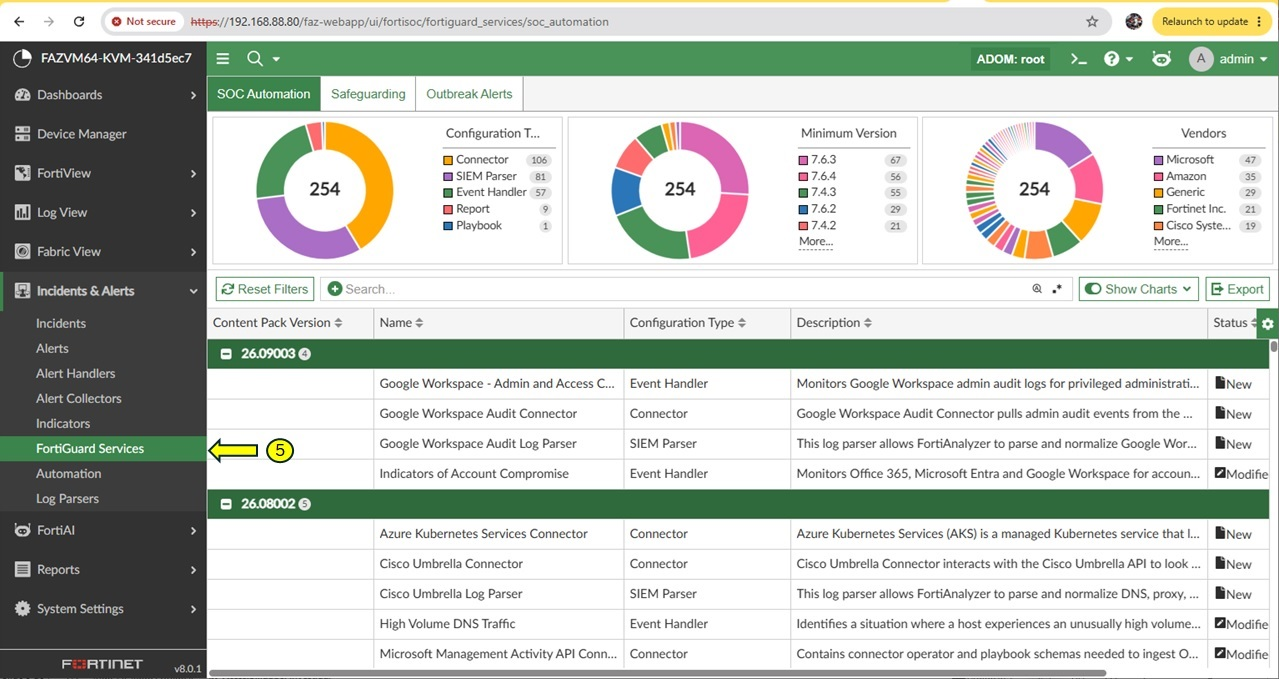
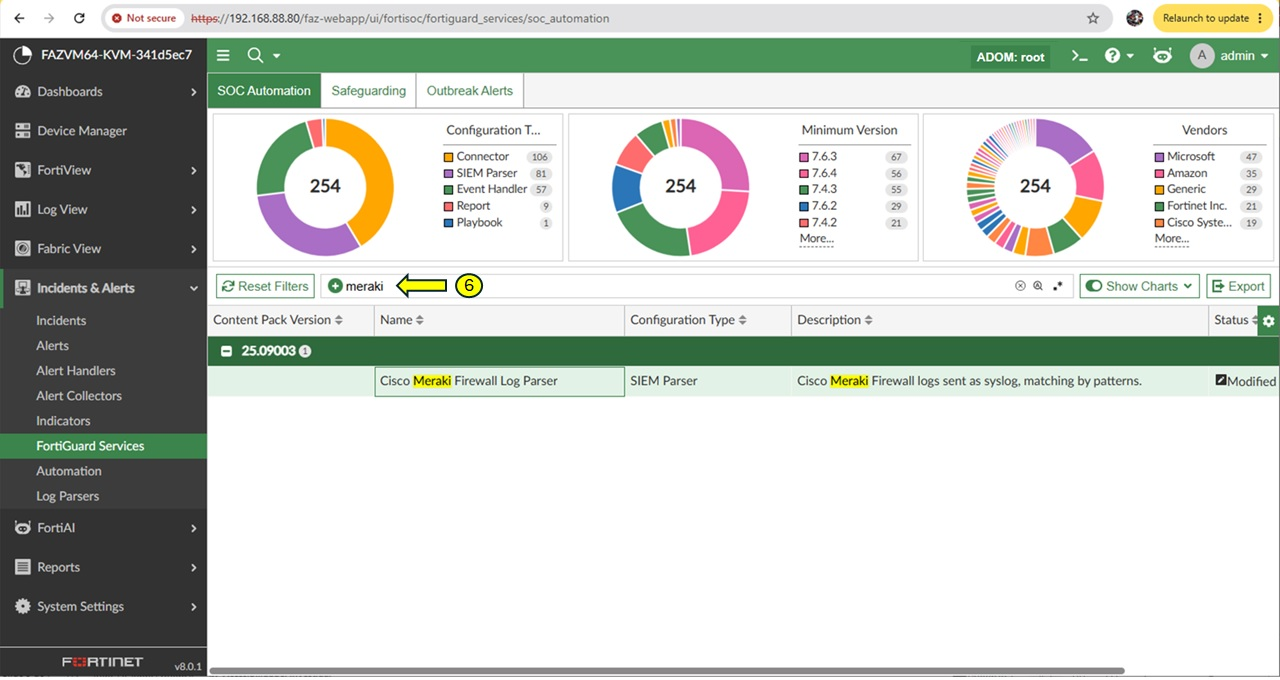
update

diff --git a/README.md b/README.md
@@ -55,3 +55,7 @@ A carefully curated selection of log parsers, delivered by the RHSP package are 
 
 ![image alt text](images/image005.jpg)
 
+7. Log Parser:
+
+![image alt text](images/image006.jpg)
+
